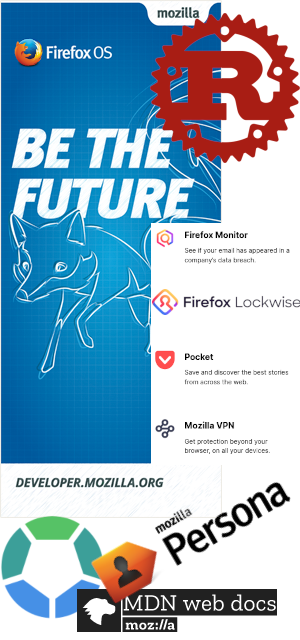
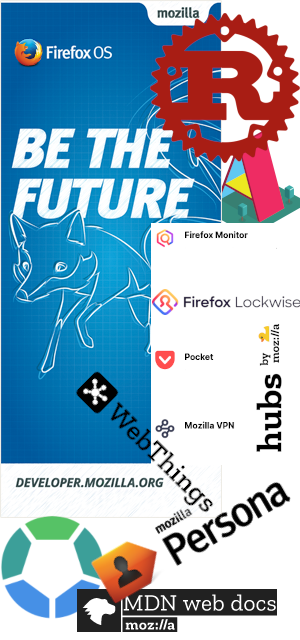
split other projects to two slides, some other small updates

Changed region(s): [[0.24, 0.5, 0.96, 0.8125], [0.63, 0.1875, 1.0, 0.4375]]

diff --git a/fosdem2021/index.html b/fosdem2021/index.html
@@ -77,7 +77,7 @@
   <li><mark><a href="https://community.mozilla.org/en/groups/mozilla-reps/">Mozilla Rep</a></mark>,
       <mark><a href="https://community.mozilla.org/en/groups/tech-speakers/">Tech Speaker</a></mark></li>
   <li>Based in Vienna, Austria</li>
-  <li>Not on most major social networks</li>
+  <li>Not very active on social networks</li>
   <li>But on <a href="https://matrix.to/#/@kairo:mozilla.org">Matrix</a>,
       <a href="https://joindiaspora.com/people/eb2e0ec0ec0d04bc">Diaspora*</a>,
       <a href="https://community.mozilla.org/en/people/kairo/">Mozilla Community</a>,
@@ -138,11 +138,12 @@
 <ul>
   <li>Late 1998: Start building on in-development Raptor/NGLayout/<mark>Gecko</mark>
       engine (HTML4+XML-compliant).</li>
-  <li>Complete <mark>rewrite</mark> of suite based on browser tech ("XPFE")</li>
+  <li>Complete <mark>rewrite</mark> of suite based on browser tech
+      ("<abbr title="Cross-Platform Front End">XPFE</bbr>")</li>
   <li><abbr title="XML User Interface Language">XUL</abbr> (with CSS + JS),
       <abbr title="XML Binding Language">XBL</abbr>,
       plus <abbr title="Cross-Platform Component Object Model">XPCOM</abbr>, RDF/XML, etc.</li>
-  <li>M3-M18 milestone releases, 0.6 as base for Netscape 6, <mark>1.0 in June 2002</mark></li>
+  <li>M3-M18 milestone releases, 0.6 as base for Netscape 6 in 2000, <mark>1.0 in June 2002</mark></li>
   <li>Regular development and releases up to 1.7 in 2005</li>
   <li>Deprecated for Firefox and Thunderbird</li>
   <li>Transition to community in 2005 ("SeaMonkey")</li>
@@ -211,8 +212,8 @@
 </div>
 </article>
 
-<article id="products" data-title="Other Products/Projects">
-<h1><span>Other Products/Projects (Excerpt)</span></h1>
+<article id="projects1" data-title="Other Products/Projects, Part 1">
+<h1><span>Other Products/Projects (Excerpt) - Part I</span></h1>
 
 <div class="simplebox">
 <img src="otherprojects.png" class="slidepic"
@@ -227,8 +228,23 @@
   <li>Servo: experimental browser engine, since 2012, cooperation with Samsung,
       moved to <abbr title="Linux Foundation">LF</abbr> in 2020</li>
   <li><mark>Firefox OS</mark>: web-based mobile OS, 2013-2016</li>
+</ul>
+<p class="ensurepicinbox"></p>
+</div>
+</article>
+
+<article id="projects2" data-title="Other Products/Projects, Part 2">
+<h1><span>Other Products/Projects (Excerpt) - Part II</span></h1>
+
+<div class="simplebox">
+<img src="otherprojects.png" class="slidepic"
+ alt="Logos of other Mozilla projects listed on the slide">
+<ul>
+  <li>A-Frame: WebVR/XR framework, since 2015, moved to community in 2018</li>
   <li><mark>Pocket</mark> (orig. "Read It Later"): web content lists,
       independent since 2007, acquired by Mozilla in 2017</li>
+  <li><mark>Mozilla Hubs</mark>: social VR platform, since 2017</li>
+  <li>WebThings: Smart Home gateway, since 2017, moved to community in 2020</li>
   <li>Firefox Lockwise: password manager, since 2018</li>
   <li>Firefox Monitor: data breach checker, since 2018</li>
   <li>Mozilla <mark>VPN</mark>: since 2019/2020</li>
@@ -246,6 +262,7 @@
 <ul>
   <li><mark>Firefox</mark> (desktop, mobile) and Pocket</li>
   <li>Plus <mark>Privacy &amp; Security</mark> products (Monitor, VPN, ...)</li>
+  <li>Some research into new offerings (like Hubs, etc.)</li>
   <li>Mozilla Foundation: Mission (MozFest, Common Voice, ...)</li>
   <li><mark>Thunderbird</mark>: separate under MoFo umbrella</li>
   <li>Related projects: <a href="https://www.rust-lang.org/">Rust</a>,
@@ -262,6 +279,7 @@
 <div class="simplebox endslidecontainer">
 <h1 class="cent endslidetext"><span>Thank You.</span></h1>
 <h2 class="cent endslidetext"><span><a href="https://home.kairo.at/">https://home.kairo.at/</a></span></h2>
+<h3 class="cent endslidetext"><span><a href="https://mozilla.org/">https://mozilla.org/</a></span></h2>
 <img src="mozgear.jpg" class="sshot endslidepic" alt="Various Mozilla gear (T-shirts, stickers, etc.)">
 </div>
 </article>

diff --git a/fosdem2021/slides.css b/fosdem2021/slides.css
@@ -435,10 +435,10 @@ h3.endslidetext > span {
 }
 
 .endslidetext:nth-child(3) {
-  top: 30rem;
+  top: 33rem;
 }
 
-@media (min-resolution: 1.3dppx) {
+@media (min-resolution: 1.35dppx) {
   h2.endslidetext,
   h3.endslidetext {
     font-size: 1.2em;
